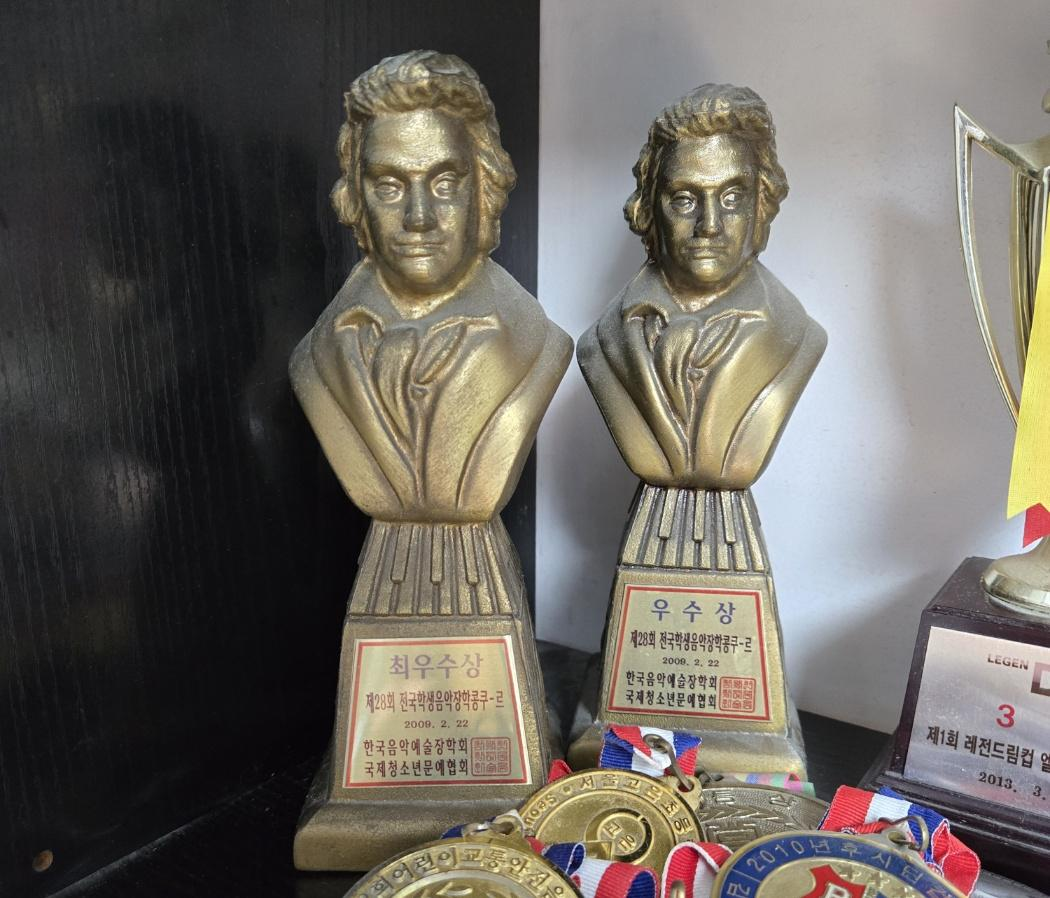
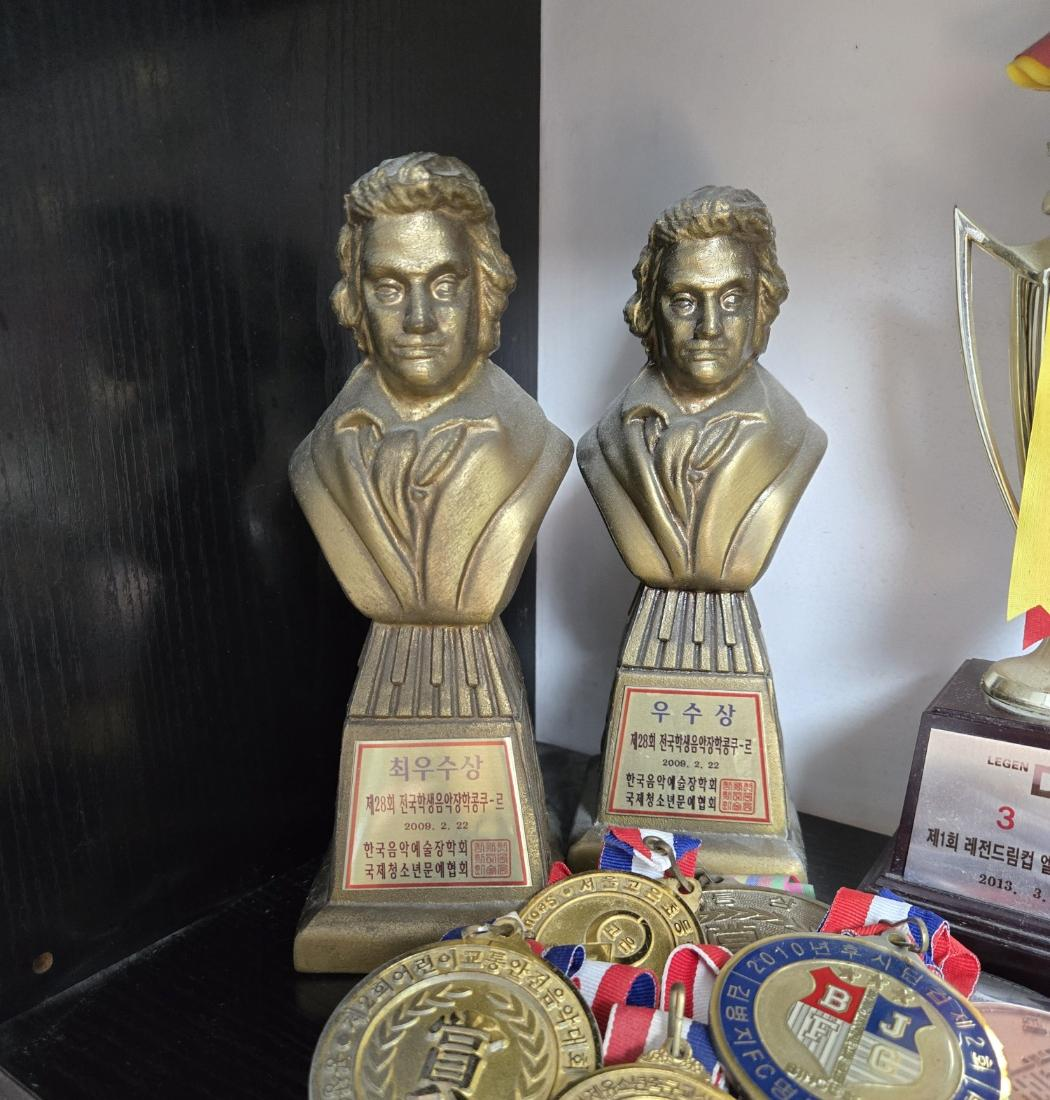
cc

diff --git a/index.html b/index.html
@@ -617,7 +617,7 @@
                       <tbody>
                           <!-- extra -->
                           <tr>
-                            <td style="width:25%;padding:20px;vertical-align:middle;">
+                            <td style="width:25%;padding:20px;vertical-align:top;">
                                 <h3>Extracurriculars</h3>
                             </td>
                             <td style="padding:20px;width:75%;vertical-align:top;"> <!-- Change to vertical-align: top -->
@@ -656,7 +656,7 @@
                             </td>
                         </tr>
                         <tr>
-                            <td style="width:25%;padding:10px;vertical-align:middle;">
+                            <td style="width:25%;padding:10px;vertical-align:top;">
                                 <h3>SKILLS</h3>
                             </td>
                             <td style="padding:20px;width:75%;vertical-align:top;"> <!-- Change to vertical-align: top -->
@@ -677,7 +677,7 @@
                       <tbody>
                           <tr>
                               <td style="padding:5px;width:100%;vertical-align:middle">
-                                <p>Below are some of the awards I've received from hobbies since the age of 5. The left photo shows my <strong>Chess</strong> and </strong>Go(Baduk)<strong> awards, including 5th place in the National Chess Championship when I was 11. The right photo shows my <strong>piano</strong> awards, where I won 1st place in a National Piano Competition at 6. The other awards represent my achievements in <strong>soccer</strong> and <strong>math</strong> competitions.</p>
+                                <p>Below are some of the awards I've received from hobbies since the age of 5. The left photo shows my <strong>Chess</strong> and <strong>Go(Baduk)</strong> awards, including 5th place in the National Chess Championship when I was 11. The right photo shows my <strong>piano</strong> awards, where I won 1st place in a National Piano Competition at 6. The other awards represent my achievements in <strong>soccer</strong> and <strong>math</strong> competitions.</p>
                                 <p><strong>I believe I can achieve anything. Contact me, please!</strong></p>
                               </td>
                           </tr>
@@ -689,13 +689,13 @@
                       <tbody>
                           <tr>
                               <td style="width:25%; padding:10px;">
-                                  <img src="images/aw2.jpg" style="width:100%; height:auto;">
+                                  <img src="images/aw2.jpg" style="width:100%; height:400px;">
                               </td>
                               <td style="width:50%; padding:10px;">
-                                  <img src="images/aw1.jpg" style="width:100%; height:auto;">
+                                  <img src="images/aw1.jpg" style="width:100%; height:400px;">
                               </td>
                               <td style="width:25%; padding:10px;">
-                                  <img src="images/aw3.jpg" style="width:100%; height:auto;">
+                                  <img src="images/aw3.jpg" style="width:100%; height:400px;">
                               </td>
                           </tr>
                       </tbody>
